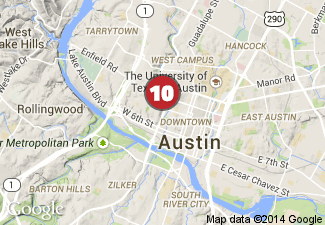
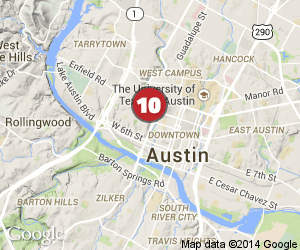
Fixes #4. Add back locator maps, served statically from assets/ folder

diff --git a/data/maps.py b/data/maps.py
@@ -6,21 +6,52 @@ j = json.load(f)
 marker_base = 'http://projects.statesman.com/features/top-restaurants/assets/markers/'
 
 map_base = 'https://maps.googleapis.com/maps/api/staticmap?'
-map_params = {}
+map_file_dest = '../assets/maps/'
+map_params_default = {
+  'zoom': '12',
+  'size': '300x250',
+  'maptype': 'terrain'
+}
 
-for i, restaurant in enumerate(j['top']):
-  print "Downloading map for " + restaurant['name']
-
-  latlong = str(restaurant['lat']) + ',' + str(restaurant['long'])
-  map_params['center'] = latlong
-  map_params['zoom'] = '12'
-  map_params['size'] = '325x225'
-  map_params['maptype'] = 'terrain'
-  map_params['markers'] = 'icon:' + marker_base + str(restaurant['position']) + '.png' + '|' + latlong
-
-  r = requests.get(map_base + urllib.urlencode(map_params), stream=True)
-  path = '../assets/maps/' + str(i) + '.jpg'
+def save_map(url, file_name):
+  """
+  """
+  r = requests.get(url, stream=True)
+  path = map_file_dest + str(file_name) + '.jpg'
   if r.status_code == 200:
       with open(path, 'wb') as f:
           for chunk in r.iter_content():
               f.write(chunk)
+
+def marker_string(position, latlong):
+  """
+  """
+  return 'icon:' + marker_base + str(position) + '.png' + '|' + latlong
+
+# Loop through the full set of top restaurants
+for i, restaurant in enumerate(j['top']):
+  print "Downloading map for " + restaurant['name']
+
+  latlong = str(restaurant['lat']) + ',' + str(restaurant['long'])
+
+  map_params = map_params_default
+  map_params['center'] = latlong
+  map_params['markers'] = marker_string(restaurant['position'], latlong)
+
+  save_map(map_base + urllib.urlencode(map_params), i)
+
+# Then save a static map for the combined Uchi/Uchiko listing
+print "Downloading a special map for Uchis."
+
+map_params = map_params_default
+
+uchi = j['top'][2]
+uchiko = j['top'][3]
+
+latlong_uchi = str(uchi['lat']) + ',' + str(uchi['long'])
+latlong_uchiko = str(uchiko['lat']) + ',' + str(uchiko['long'])
+
+map_params['center'] = str((uchi['lat'] + uchiko['lat']) / 2) + 'x' + str((uchi['long'] + uchiko['long']) / 2)
+map_params['size'] = '300x325'
+map_params['markers'] = marker_string(3, latlong_uchi)
+save_map(map_base + urllib.urlencode(map_params) + '&markers=' + urllib.quote_plus(marker_string(3, latlong_uchiko)), 'uchis')
